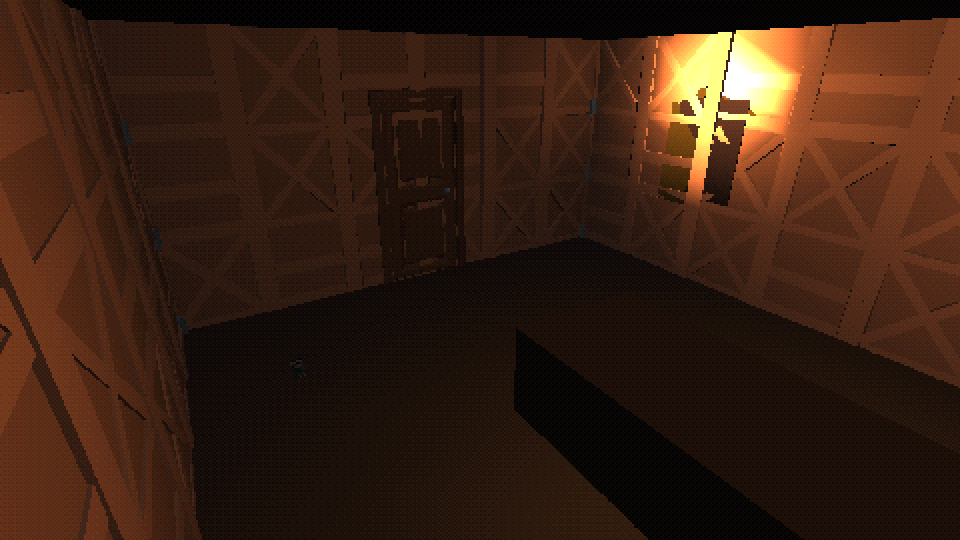
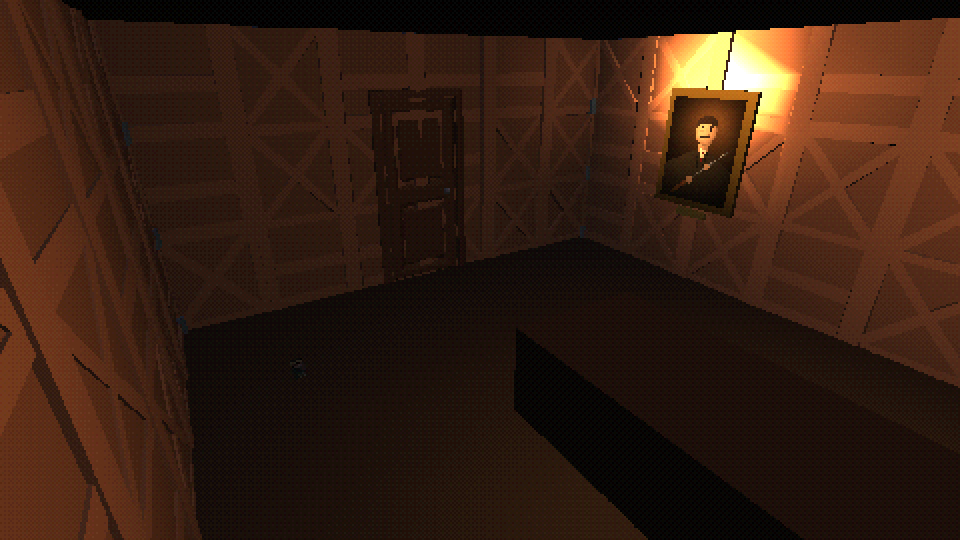
v0.1.5: zip name and the new Dining Room portrait

Changed region(s): [[0.6875, 0.1481, 0.8125, 0.4148]]

diff --git a/README.md b/README.md
@@ -4,7 +4,7 @@ A short survival horror game in the style of the 1990s classics: fixed camera an
 
 ## ⬇ [Download for Windows](https://github.com/TheDyXer/blackwood-lodge-demo/releases/latest)
 
-Under **Assets**, download `BlackwoodLodge-Windows-v0.1.4.zip` (60 MB).
+Under **Assets**, download `BlackwoodLodge-Windows-v0.1.5.zip` (60 MB).
 
 1. Unzip the whole folder (don't run it from inside the zip).
 2. Double-click `BlackwoodLodge.exe`.
